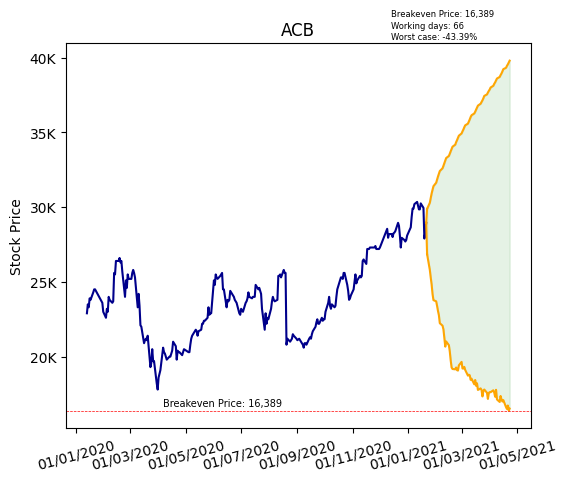
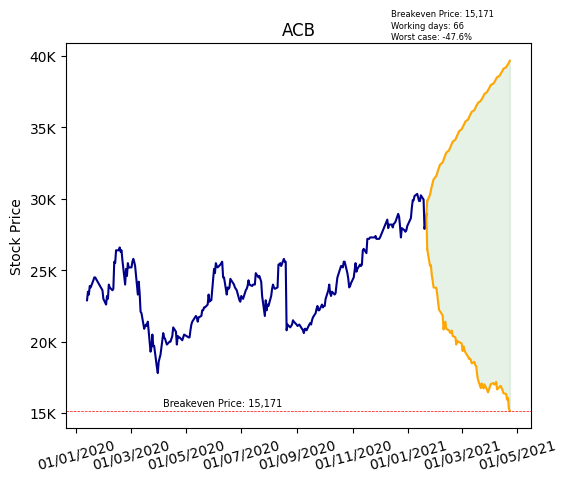
post_breakeven_price

diff --git a/request_phs/request_data.py b/request_phs/request_data.py
@@ -740,7 +740,7 @@ def request_fs_ticker(ticker=str) -> pd.DataFrame:
     This functions returns all financial statements
     of given ticker in all periods
 
-    :param ticker: allow values in request_ticker()
+    :param ticker: allow values in request_ticker_all()
     :return: pandas.DataFrame
     """
 
@@ -1083,7 +1083,7 @@ def request_price() -> pd.DataFrame:
     """
 
     periods = request_period()
-    tickers = request_ticker()
+    tickers = request_ticker_all()
 
     prices = pd.DataFrame(data=np.zeros((len(tickers),len(periods))),
                           columns=[periods[i]
@@ -1216,7 +1216,7 @@ def request_trading_hist(ticker=str, fromdate=None, todate=None) \
     """
     This function returns historical trading data of given ticker
 
-    :param ticker: allow values in request_ticker()
+    :param ticker: allow values in request_ticker_all()
     :param fromdate: [optional] allow any date with format: 'yyyy-mm-dd' or 'yyyy/mm/dd'
     :param todate: [optional] allow any date with format: 'yyyy-mm-dd' or 'yyyy/mm/dd'
     """
@@ -1304,7 +1304,7 @@ def request_trading_intra(ticker=str, fromdate=None, todate=None) \
     """
     This function returns intraday trading data of given ticker
 
-    :param ticker: allow values in request_ticker()
+    :param ticker: allow values in request_ticker_all()
     :param fromdate: [optional] allow any date with format: 'yyyy-mm-dd' or 'yyyy/mm/dd'
     :param todate: [optional] allow any date with format: 'yyyy-mm-dd' or 'yyyy/mm/dd'
 
@@ -1375,7 +1375,7 @@ def request_latest_close_price(ticker=str) -> float:
     """
     This function returns the latest close price of given ticker
 
-    :param ticker: allow values in request_ticker()
+    :param ticker: allow values in request_ticker_all()
     :return: float
     """
 

diff --git a/post_phs/post_api.py b/post_phs/post_api.py
@@ -18,7 +18,7 @@ def post_breakeven_price() -> None:
     breakeven_price = dict()
     for segment in request_segment_all():
         tickers = request_ticker(segment)
-        breakeven_price = dict(index=tickers, name='price', dtype='int32')
+        breakeven_price = dict()
         for ticker in tickers:
             try:
                 price = monte_carlo(ticker=ticker, graph='off')
@@ -42,7 +42,7 @@ def post_breakeven_price() -> None:
                       headers={'content-type':
                                    'application/json; charset=utf-8'})
 
-    df = pd.DataFrame(json.loads(r.json()['d']))
+    df = pd.DataFrame(json.loads(r.json()['d']), index=['price'])
 
     print(r)
     print("Execution time is: %s seconds" %(time.time()-start_time))

diff --git a/breakeven_price/monte_carlo.py b/breakeven_price/monte_carlo.py
@@ -15,7 +15,7 @@ destination_dir \
     = join(dirname(realpath(__file__)), 'monte_carlo_result')
 
 
-def monte_carlo(ticker, days=66, alpha=0.01,
+def monte_carlo(ticker, days=66, alpha=0.05,
                 simulation=100000, graph='on',
                 location=destination_dir):
 
